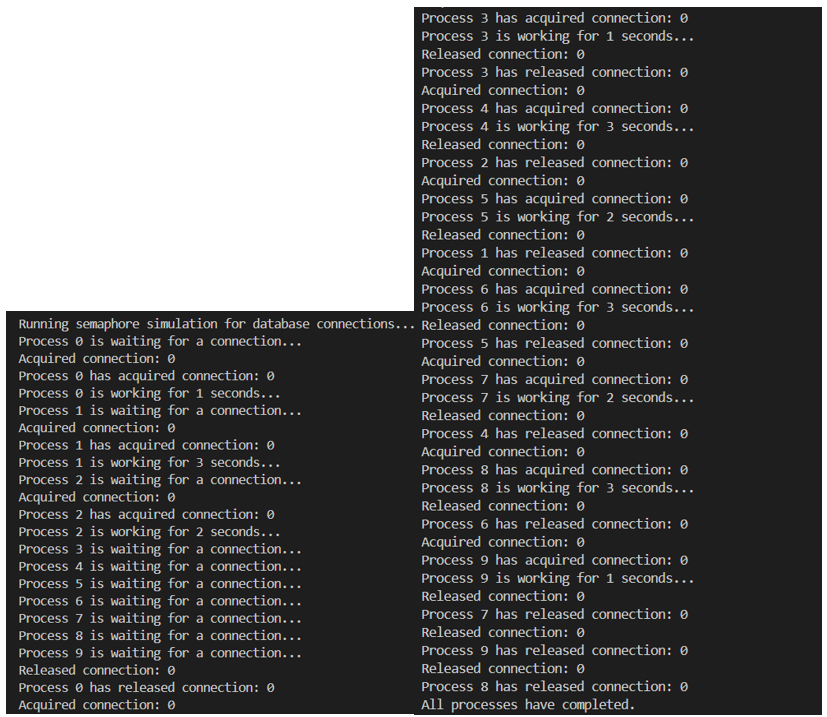
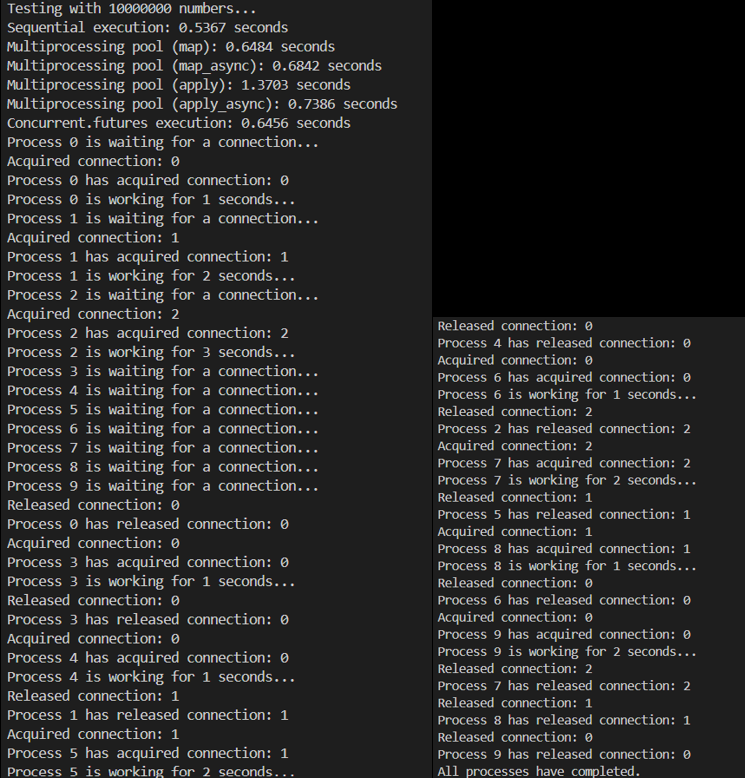
Fixed the connection pool only processes only acquiring one process using locks and manager list

diff --git a/src/connection_pool.py b/src/connection_pool.py
@@ -1,4 +1,4 @@
-from multiprocessing import Semaphore
+from multiprocessing import Semaphore, Lock, Manager
 
 class ConnectionPool:
     def __init__(self, size):
@@ -6,15 +6,18 @@ class ConnectionPool:
         Initialize the connection pool with a fixed number of connections.
         :param size: Number of connections in the pool.
         """
-        self.connections = list(range(size))  # Simulate connections (e.g., [0, 1, 2])
-        self.semaphore = Semaphore(size)      # Semaphore to control access
+        self.manager = Manager()
+        self.connections = self.manager.list(range(size))  # Shared list of connections
+        self.semaphore = Semaphore(size)                  # Semaphore to control access
+        self.lock = Lock()                                # Lock for thread-safe access
 
     def get_connection(self):
         """
         Acquire a connection from the pool.
         """
         self.semaphore.acquire()  # Wait for a connection to be available
-        connection = self.connections.pop(0)  # Remove the first connection from the pool
+        with self.lock:           # Ensure thread-safe access to the connection list
+            connection = self.connections.pop(0)  # Remove the first connection
         print(f"Acquired connection: {connection}")
         return connection
 
@@ -23,6 +26,7 @@ class ConnectionPool:
         Release a connection back to the pool.
         :param connection: The connection to release.
         """
-        self.connections.append(connection)  # Add the connection back to the pool
+        with self.lock:  # Ensure thread-safe access to the connection list
+            self.connections.append(connection)  # Add the connection back to the pool
         print(f"Released connection: {connection}")
         self.semaphore.release()  # Signal that a connection is available

diff --git a/src/semaphore_simulation.py b/src/semaphore_simulation.py
@@ -1,16 +1,12 @@
 from multiprocessing import Process
-from src.connection_pool import ConnectionPool
 from src.database_operations import access_database
+from src.connection_pool import ConnectionPool
 
 def run_semaphore_simulation():
-    """Runs the semaphore simulation for database connections."""
-    print("\nRunning semaphore simulation for database connections...")
-
-    # Create a connection pool with 3 connections
-    pool = ConnectionPool(3)
-
-    # Create 10 processes to simulate concurrent access
+    pool = ConnectionPool(size=3)  # Create a connection pool with 3 connections
     processes = []
+
+    # Create 10 processes
     for i in range(10):
         p = Process(target=access_database, args=(pool, i))
         processes.append(p)

diff --git a/README.md b/README.md
@@ -68,4 +68,7 @@ connections?
         - When a process releases a connection, the semaphore count is incremented.
         - This ensures that no more than 3 processes can access the connection pool simultaneously.
     - This prevents race conditions and ensures that the connection pool is accessed safely.
+    - Lock:
+        - Ensures that only one process can modify the connection list at a time, preventing race conditions.
+        - Without the lock, multiple processes could attempt to modify the connection list simultaneously, leading to inconsistencies.
 ---
